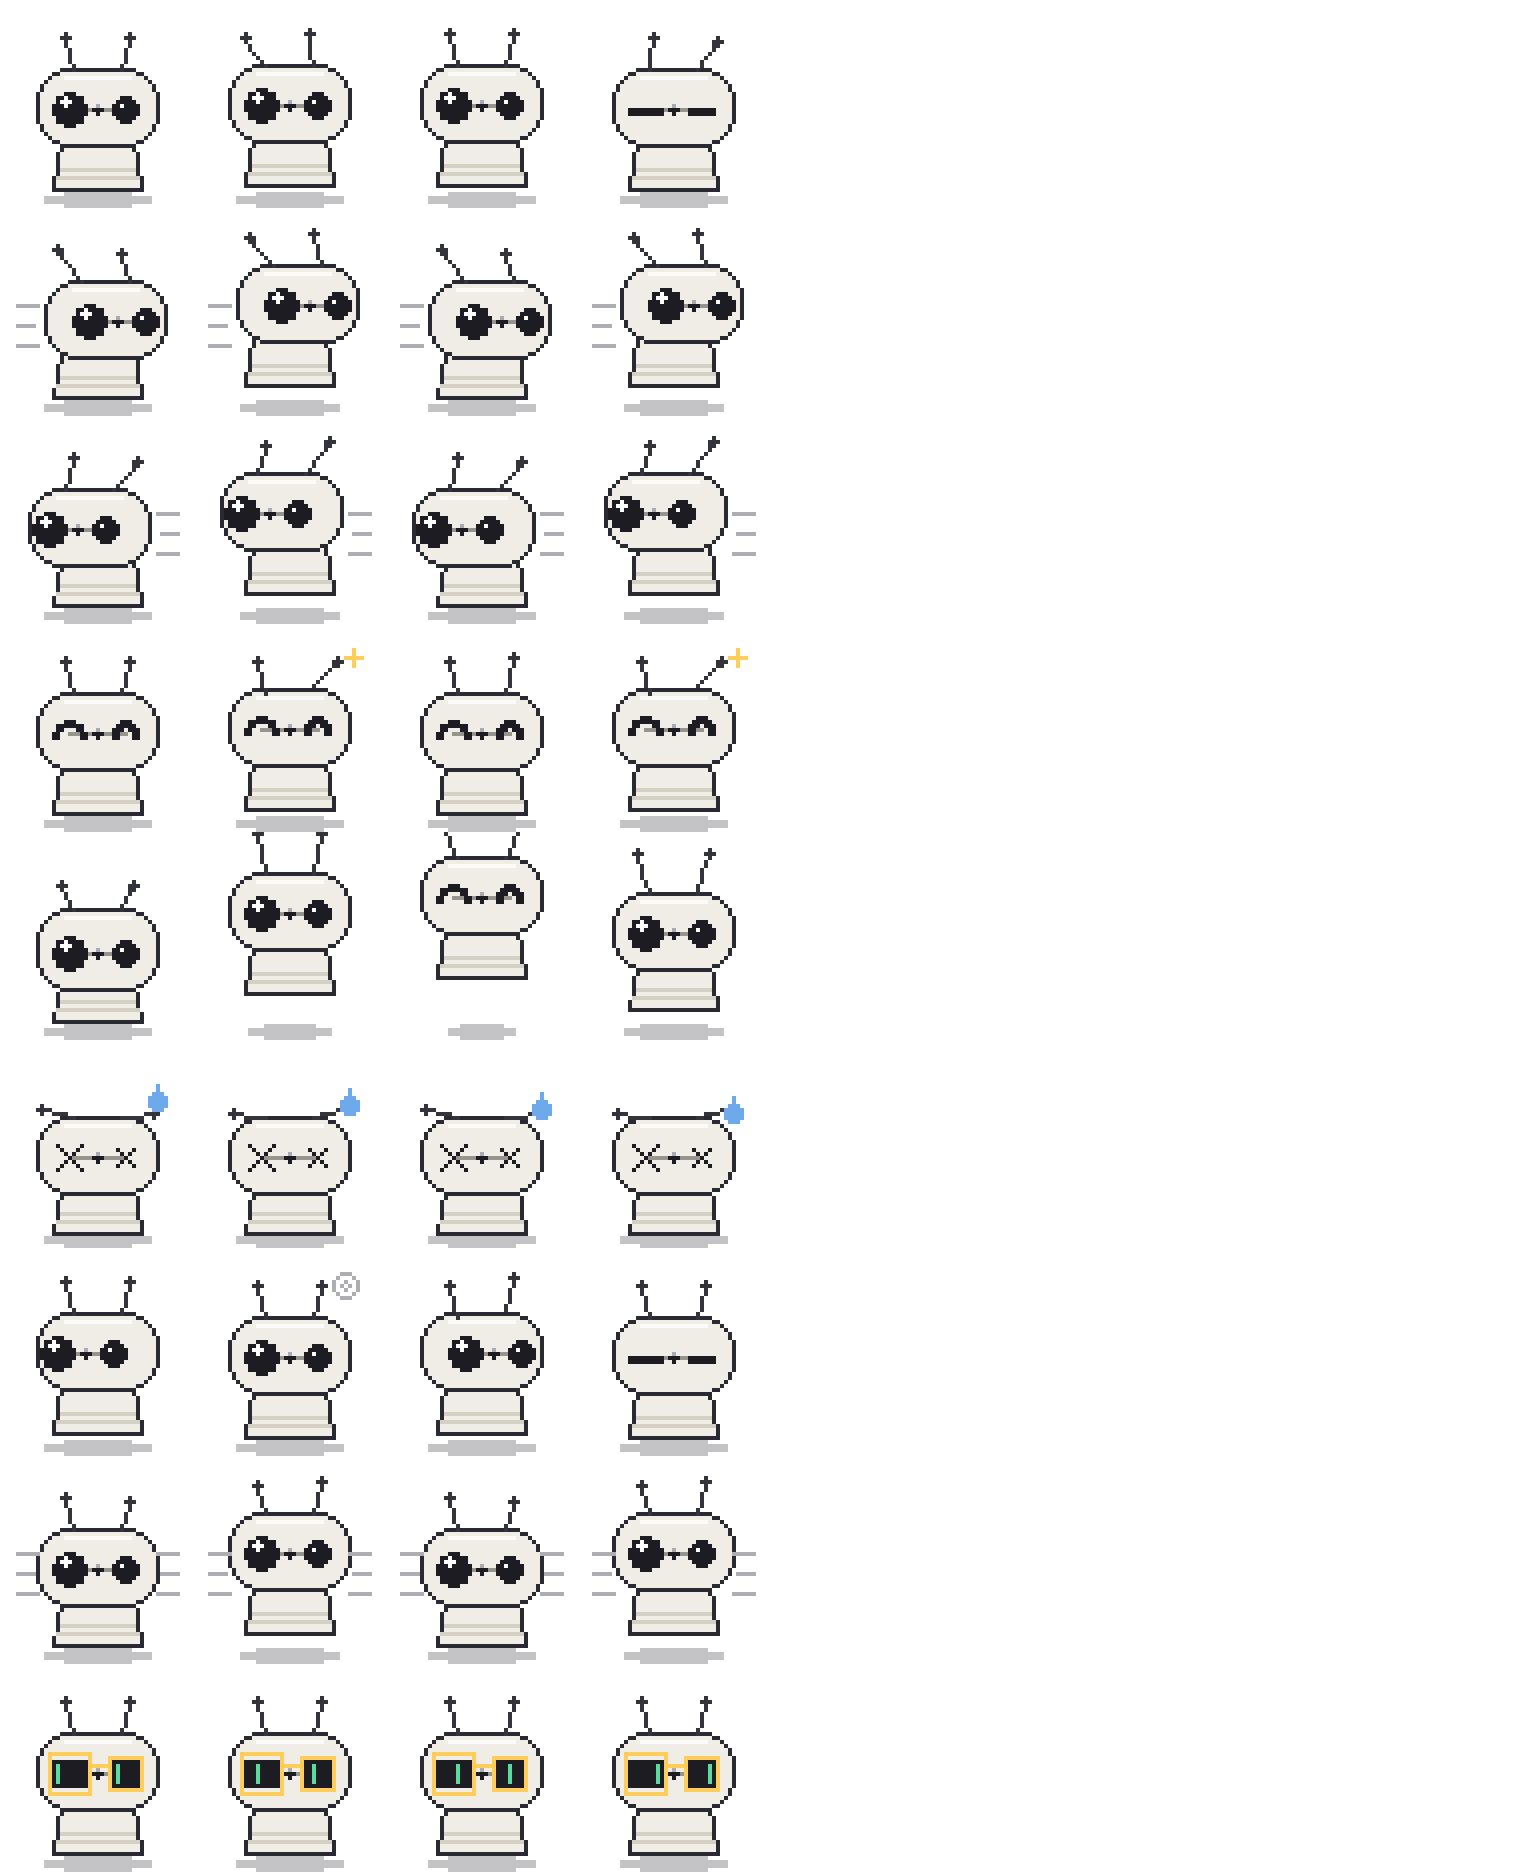
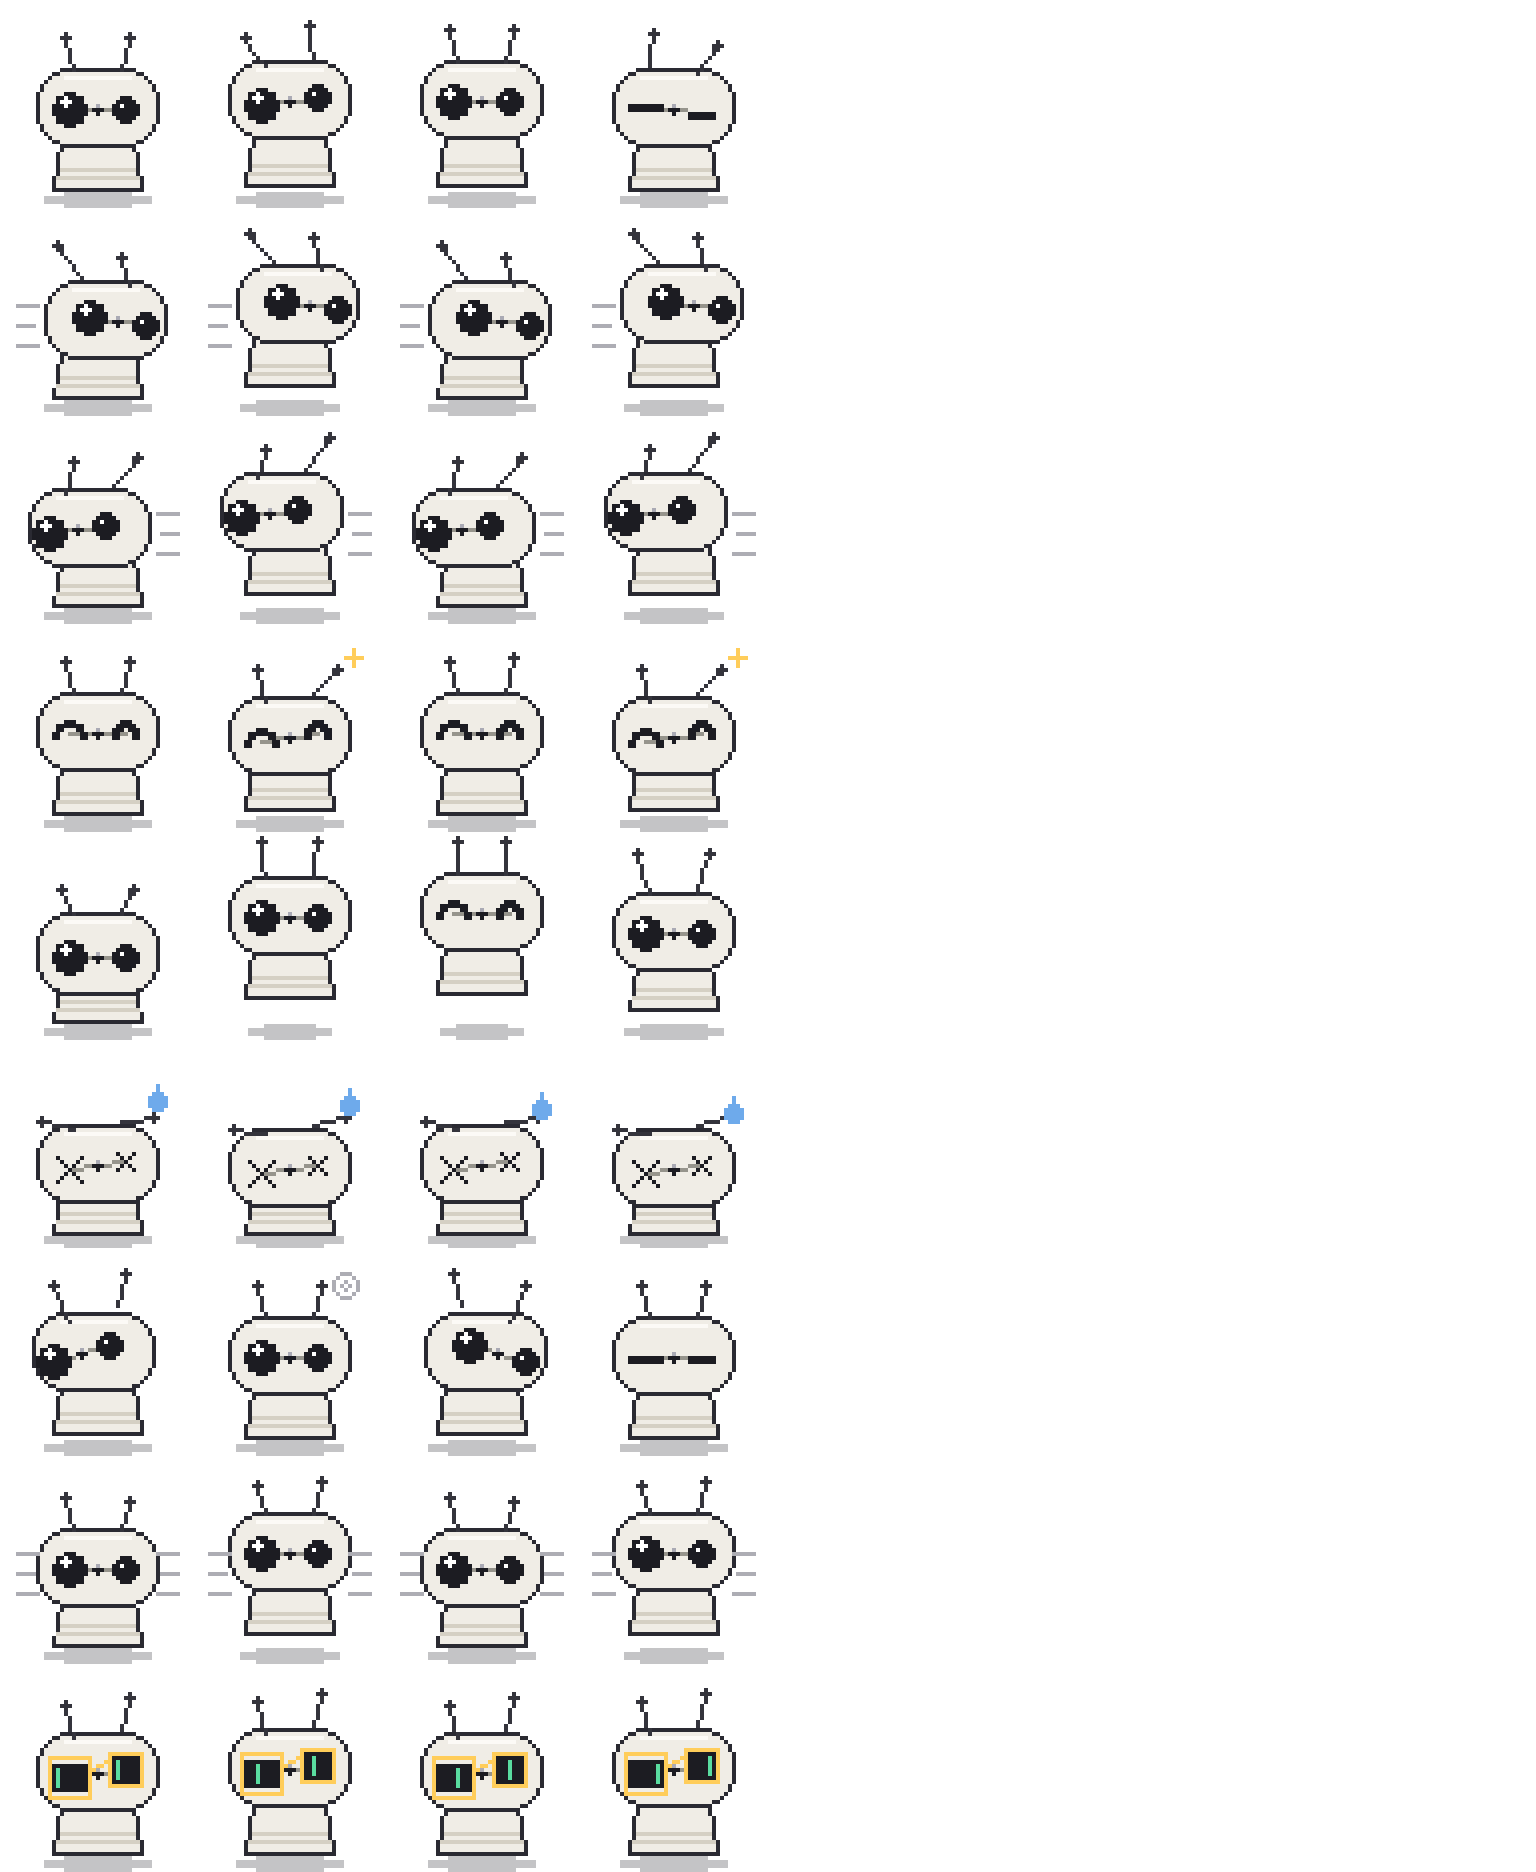
Animate the head the way the real robot expresses itself
The real Reachy Mini emotes through a 6-DOF neck, body rotation, and
two animated antennae (its emotion library records exactly those
channels), so the sprite now moves the same parts:

- New head channels: sideways lean (head_dx), vertical bob (head_dy),
  and a pixel-art-faked roll (tilt) that angles the face line and
  antenna bases diagonally while keeping the head slab crisp
- idle: breathing bob with a lazy head roll
- waving: greeting nod while the antenna waves
- jumping: celebration pose, antennae perked straight up at the apex
- failed: sad slump, head dropped low on the neck
- waiting: curious sideways head tilt with one antenna perked
- review: studious tilt held while the lenses scan
- Verify pass now also fails on art clipped at the top of a cell
- README documents the real-robot-to-sprite expression mapping

Claude-Session: https://claude.ai/code/session_01FnqqnHTN3C9xG7t7b8vUPW

diff --git a/generate_sprite.py b/generate_sprite.py
@@ -51,49 +51,55 @@ def draw_antenna(d, x0, y0, tip_dx, tip_dy):
     d.ellipse([tip[0] - 1, tip[1] - 1, tip[0] + 1, tip[1] + 1], fill=ANTENNA)
 
 
-def draw_eyes(d, cx, cy, style="open", look=0, scan=0):
+def draw_eyes(d, cx, cy, style="open", look=0, scan=0, tilt=0):
     """Reachy Mini's face: two round camera eyes — one slightly larger —
-    joined by a thin seam, with a tiny center camera lens sitting on it."""
+    joined by a thin seam, with a tiny center camera lens sitting on it.
+
+    tilt fakes the real robot's head roll at pixel-art resolution: the
+    left eye drops by `tilt` px, the right rises, and the seam runs
+    diagonally between them (positive tilt = right side up)."""
     lx = cx - 7 + look
     rx = cx + 7 + look
     mx = cx + look
-    # (eye x, radius): the left lens is slightly bigger than the right
-    eyes = ((lx, 4), (rx, 3))
+    lcy = cy + tilt
+    rcy = cy - tilt
+    # (eye x, radius, eye center y): the left lens is slightly bigger
+    eyes = ((lx, 4, lcy), (rx, 3, rcy))
 
     # thin seam connecting the eyes + tiny center camera lens
     # (drawn first, eyes go on top)
-    d.line([lx, cy, rx, cy], fill=(150, 148, 140, 255), width=1)
+    d.line([lx, lcy, rx, rcy], fill=(150, 148, 140, 255), width=1)
     d.ellipse([mx - 1, cy - 1, mx + 1, cy + 1], fill=EYE_DARK)
     d.point((mx, cy - 1), fill=(170, 170, 180, 255))
 
     if style == "open":
-        for ex, r in eyes:
-            d.ellipse([ex - r, cy - r, ex + r, cy + r], fill=EYE_DARK)
+        for ex, r, ey in eyes:
+            d.ellipse([ex - r, ey - r, ex + r, ey + r], fill=EYE_DARK)
             if r >= 4:
-                d.ellipse([ex - r + 2, cy - r + 1, ex - r + 4, cy - r + 3], fill=EYE_GLINT)
+                d.ellipse([ex - r + 2, ey - r + 1, ex - r + 4, ey - r + 3], fill=EYE_GLINT)
             else:
-                d.point((ex - 1, cy - 1), fill=EYE_GLINT)
+                d.point((ex - 1, ey - 1), fill=EYE_GLINT)
     elif style == "blink":
-        for ex, r in eyes:
-            d.line([ex - r, cy, ex + r, cy], fill=EYE_DARK, width=2)
+        for ex, r, ey in eyes:
+            d.line([ex - r, ey, ex + r, ey], fill=EYE_DARK, width=2)
     elif style == "happy":
-        for ex, r in eyes:
-            d.arc([ex - r, cy - 3, ex + r, cy + 5], 180, 360, fill=EYE_DARK, width=2)
+        for ex, r, ey in eyes:
+            d.arc([ex - r, ey - 3, ex + r, ey + 5], 180, 360, fill=EYE_DARK, width=2)
     elif style == "dizzy":
-        for ex, r in eyes:
+        for ex, r, ey in eyes:
             s = r - 1
-            d.line([ex - s, cy - s, ex + s, cy + s], fill=EYE_DARK, width=1)
-            d.line([ex - s, cy + s, ex + s, cy - s], fill=EYE_DARK, width=1)
+            d.line([ex - s, ey - s, ex + s, ey + s], fill=EYE_DARK, width=1)
+            d.line([ex - s, ey + s, ex + s, ey - s], fill=EYE_DARK, width=1)
     elif style == "scan":
-        for ex, r in eyes:
-            d.rectangle([ex - r, cy - 3, ex + r, cy + 3], fill=EYE_DARK)
+        for ex, r, ey in eyes:
+            d.rectangle([ex - r, ey - 3, ex + r, ey + 3], fill=EYE_DARK)
             # sweep the scan line across each lens, scaled to its width
             sx = ex - (r - 1) + (scan * (2 * (r - 1))) // 6
-            d.line([sx, cy - 2, sx, cy + 2], fill=(90, 220, 160, 255), width=1)
+            d.line([sx, ey - 2, sx, ey + 2], fill=(90, 220, 160, 255), width=1)
 
 
 def draw_robot(
-    d,
+    img,
     dy=0,
     squash=0,
     look=0,
@@ -102,16 +108,23 @@ def draw_robot(
     ant_l=(-2, 8),
     ant_r=(2, 8),
     head_dx=0,
-    head_tilt=0,
+    head_dy=0,
+    tilt=0,
     glasses=False,
     ground_shadow=True,
 ):
     """Draw the whole robot into one logical frame.
 
-    dy: vertical offset (negative = up).  squash: extra px removed from body
-    height (bounce squash).  head_dx: sideways head shift for leaning.
-    head_tilt: vertical offset added to one side of the antennae bases.
+    The real Reachy Mini expresses itself with a 6-DOF neck (pan / tilt /
+    roll plus vertical bob), full body rotation, and two animated antennae,
+    so the head gets its own movement channels independent of the body:
+
+    dy: whole-figure vertical offset (negative = up).  squash: bounce squash.
+    head_dx / head_dy: neck pan lean and vertical head bob (neck z).
+    tilt: fake head roll in px — face line and antenna bases go diagonal
+    (positive = right side up); the head slab itself stays crisp.
     """
+    d = ImageDraw.Draw(img)
     cx = LW // 2
     ground = LH - 5
 
@@ -139,9 +152,10 @@ def draw_robot(
     head_h = 19 + squash // 2
     head_w = 30
     hx = cx + head_dx
-    head_top = body_top - head_h + 2
+    head_top = body_top - head_h + 2 + head_dy
+    head_bottom = body_top + 2 + head_dy
     d.rounded_rectangle(
-        [hx - head_w // 2, head_top, hx + head_w // 2, body_top + 2],
+        [hx - head_w // 2, head_top, hx + head_w // 2, head_bottom],
         radius=8,
         fill=CREAM,
         outline=OUTLINE,
@@ -151,19 +165,18 @@ def draw_robot(
     d.line([hx - 8, head_top + 2, hx + 8, head_top + 2], fill=CREAM_BRIGHT, width=1)
 
     face_cy = head_top + head_h // 2 + 1
-    draw_eyes(d, hx, face_cy, style=eye_style, look=look, scan=scan)
+    draw_eyes(d, hx, face_cy, style=eye_style, look=look, scan=scan, tilt=tilt)
 
     if glasses:
         lx, rx = hx - 7 + look, hx + 7 + look
-        d.rectangle([lx - 5, face_cy - 5, lx + 5, face_cy + 5], outline=SPARK, width=1)
-        d.rectangle([rx - 4, face_cy - 4, rx + 4, face_cy + 4], outline=SPARK, width=1)
-        d.line([lx + 5, face_cy - 2, rx - 4, face_cy - 2], fill=SPARK, width=1)
+        lcy, rcy = face_cy + tilt, face_cy - tilt
+        d.rectangle([lx - 5, lcy - 5, lx + 5, lcy + 5], outline=SPARK, width=1)
+        d.rectangle([rx - 4, rcy - 4, rx + 4, rcy + 4], outline=SPARK, width=1)
+        d.line([lx + 5, lcy - 2, rx - 4, rcy - 2], fill=SPARK, width=1)
 
-    # Antennae, planted on the head top.
-    base_l = (hx - 6, head_top + head_tilt)
-    base_r = (hx + 6, head_top - head_tilt)
-    draw_antenna(d, *base_l, *ant_l)
-    draw_antenna(d, *base_r, *ant_r)
+    # Antennae, planted on the head top; their bases follow the head roll.
+    draw_antenna(d, hx - 6, head_top + tilt, *ant_l)
+    draw_antenna(d, hx + 6, head_top - tilt, *ant_r)
 
 
 def motion_lines(d, side, y=30):
@@ -181,13 +194,17 @@ def motion_lines(d, side, y=30):
 # --- Per-row frame builders ---------------------------------------------------
 
 def row_idle():
+    """Breathing bob with a lazy head sway — the neck is always alive."""
     frames = []
     bob = [0, -1, -1, 0]
+    head_bob = [0, -1, -1, 0]
+    tilts = [0, 1, 0, -1]
     sway = [(-2, 8), (-5, 7), (-2, 8), (1, 8)]
     sway_r = [(2, 8), (-1, 8), (2, 8), (5, 7)]
     for i in range(4):
         img, d = new_frame()
-        draw_robot(d, dy=bob[i], eye_style="blink" if i == 3 else "open",
+        draw_robot(img, dy=bob[i], head_dy=head_bob[i], tilt=tilts[i],
+                   eye_style="blink" if i == 3 else "open",
                    ant_l=sway[i], ant_r=sway_r[i])
         frames.append(img)
     return frames
@@ -204,8 +221,9 @@ def row_run(direction):
         trail = -4 * direction if direction else 0
         ant_l = (trail - 2, 7 if i % 2 else 8)
         ant_r = (trail + 2, 8 if i % 2 else 7)
-        draw_robot(d, dy=bob[i], squash=sq[i], look=look,
-                   head_dx=2 * direction, ant_l=ant_l, ant_r=ant_r)
+        draw_robot(img, dy=bob[i], squash=sq[i], look=look,
+                   head_dx=2 * direction, tilt=-direction,
+                   ant_l=ant_l, ant_r=ant_r)
         if direction:
             motion_lines(d, -direction)
         else:
@@ -216,13 +234,16 @@ def row_run(direction):
 
 
 def row_wave():
-    """Non-looping greeting: no arms, so Reachy waves with an antenna."""
+    """Non-looping greeting: the real robot greets with a head nod and an
+    antenna wiggle, so nod the head while one antenna waves big."""
     frames = []
     wave = [(2, 8), (6, 6), (2, 9), (6, 6)]
+    nod = [0, 2, 0, 2]
     for i in range(4):
         img, d = new_frame()
-        draw_robot(d, dy=-1 if i % 2 else 0, eye_style="happy",
-                   ant_l=(-2, 8), ant_r=wave[i], head_tilt=1 if i % 2 else 0)
+        draw_robot(img, dy=-1 if i % 2 else 0, head_dy=nod[i],
+                   eye_style="happy",
+                   ant_l=(-2, 8), ant_r=wave[i], tilt=1 if i % 2 else 0)
         if i in (1, 3):
             x, y = LW - 8, 8
             d.line([x - 2, y, x + 2, y], fill=SPARK, width=1)
@@ -232,29 +253,35 @@ def row_wave():
 
 
 def row_jump():
+    """Celebration: squash, launch, hang with antennae perked straight up."""
     frames = []
     img, d = new_frame()
-    draw_robot(d, dy=0, squash=3, ant_l=(-3, 6), ant_r=(3, 6))
+    draw_robot(img, dy=0, squash=3, head_dy=1, ant_l=(-3, 6), ant_r=(3, 6))
     frames.append(img)
     img, d = new_frame()
-    draw_robot(d, dy=-7, eye_style="open", ant_l=(-2, 10), ant_r=(2, 10))
+    draw_robot(img, dy=-6, eye_style="open",
+               ant_l=(-1, 9), ant_r=(1, 9))
     frames.append(img)
     img, d = new_frame()
-    draw_robot(d, dy=-11, eye_style="happy", ant_l=(-4, 9), ant_r=(4, 9))
+    draw_robot(img, dy=-7, eye_style="happy",
+               ant_l=(0, 8), ant_r=(0, 8))
     frames.append(img)
     img, d = new_frame()
-    draw_robot(d, dy=-3, squash=1, ant_l=(-3, 10), ant_r=(3, 10))
+    draw_robot(img, dy=-3, squash=1, ant_l=(-3, 10), ant_r=(3, 10))
     frames.append(img)
     return frames
 
 
 def row_failed():
+    """Sad: the real move drops the head low on the neck with antennae
+    hanging flat; the whole figure slumps and barely breathes."""
     frames = []
     for i in range(4):
         img, d = new_frame()
         droop_l = (-8, 2) if i % 2 == 0 else (-8, 1)
         droop_r = (8, 1) if i % 2 == 0 else (8, 2)
-        draw_robot(d, dy=1, eye_style="dizzy", ant_l=droop_l, ant_r=droop_r,
+        draw_robot(img, dy=1, head_dy=3 if i % 2 else 2, tilt=1,
+                   eye_style="dizzy", ant_l=droop_l, ant_r=droop_r,
                    squash=1)
         # sweat drop sliding down beside the head
         sx, sy = LW - 9, 14 + i
@@ -265,13 +292,20 @@ def row_failed():
 
 
 def row_waiting():
+    """Curious: Reachy's signature move is a sideways head tilt with one
+    antenna perked, glancing around while it waits."""
     frames = []
     looks = [-3, 0, 3, 0]
+    tilts = [2, 0, -2, 0]
+    leans = [-1, 0, 1, 0]
     styles = ["open", "open", "open", "blink"]
     for i in range(4):
         img, d = new_frame()
-        draw_robot(d, dy=0 if i % 2 else -1, look=looks[i], eye_style=styles[i],
-                   ant_l=(-2, 8), ant_r=(2, 8), head_tilt=1 if i == 2 else 0)
+        ant_l = (-4, 9) if i == 0 else (-2, 8)
+        ant_r = (4, 9) if i == 2 else (2, 8)
+        draw_robot(img, dy=0 if i % 2 else -1, look=looks[i],
+                   tilt=tilts[i], head_dx=leans[i], eye_style=styles[i],
+                   ant_l=ant_l, ant_r=ant_r)
         if i == 1:
             x, y = LW - 10, 9
             for r in (1, 3):
@@ -281,11 +315,13 @@ def row_waiting():
 
 
 def row_review():
+    """Thinking: a slight studious head tilt held while the lenses scan."""
     frames = []
     scans = [0, 2, 4, 6]
     for i in range(4):
         img, d = new_frame()
-        draw_robot(d, dy=0, eye_style="scan", scan=scans[i], glasses=True,
+        draw_robot(img, dy=0, tilt=1, head_dy=-1 if i % 2 else 0,
+                   eye_style="scan", scan=scans[i], glasses=True,
                    ant_l=(-2, 8), ant_r=(2, 8))
         frames.append(img)
     return frames
@@ -328,6 +364,9 @@ def verify(atlas):
                 ok = False
             if col >= FRAMES_PER_ROW and has_pixels:
                 print(f"FAIL: row {row + 1} col {col + 1} should be fully transparent")
+                ok = False
+            if has_pixels and cell.crop((0, 0, CELL_W, 1)).getextrema()[3][1] > 0:
+                print(f"FAIL: row {row + 1} col {col + 1} has art clipped at the cell top")
                 ok = False
     if atlas.size != (1536, 1872):
         print(f"FAIL: atlas size {atlas.size}, expected (1536, 1872)")

diff --git a/README.md b/README.md
@@ -23,25 +23,45 @@ generate_sprite.py      generates the atlas + previews and verifies the layout
 preview/                per-row PNG strips and animated GIFs, plus the full atlas
 ```
 
+## How the real robot expresses itself
+
+The real Reachy Mini has no arms, no legs, and no display face — its
+camera eyes never change. All of its expression comes from three
+channels, which its emotion library records as trajectories of head
+pose + antenna angles + body yaw:
+
+- a **6-DOF neck** — pan, tilt, roll, plus vertical head bobbing
+- **full body rotation** around the vertical axis
+- **two independently animated antennae**
+
+The sprite animates the same channels: an independent head layer with
+sideways lean (`head_dx`), vertical bob (`head_dy`), and a faked roll
+(`tilt` — the face line and antenna bases go diagonal while the head
+slab stays pixel-crisp), plus per-frame antenna poses. Eye expressions
+(blinks, happy arcs, X eyes, scan lines) are a sprite-native cheat the
+real robot can't do, layered on top of the true body language.
+
 ## Atlas layout (v1)
 
-9 state rows, 4 leading frames each, trailing cells fully transparent:
+9 state rows, 4 leading frames each, trailing cells fully transparent.
+Each row is modeled on a move from the robot's emotion/gesture library:
 
-| Row | State | Animation |
-| --- | --- | --- |
-| 1 | idle | gentle bob, antenna sway, occasional blink |
-| 2 | running-right | lean right, bounce, speed streaks |
-| 3 | running-left | mirrored | 
-| 4 | waving | no arms — waves an antenna, happy eyes, sparkle |
-| 5 | jumping | squash, launch, hang with happy eyes, land |
-| 6 | failed | flopped antennae, X eyes, sliding sweat drop |
-| 7 | waiting | looks left/right, head tilt, blink, "?" ripple |
-| 8 | running | front-facing bounce, streaks both sides |
-| 9 | review | reading glasses, green scan lines sweeping both lenses |
+| Row | State | Real-robot move | Animation |
+| --- | --- | --- | --- |
+| 1 | idle | idle breathing | body + head bob, lazy head roll, antenna sway, blink |
+| 2 | running-right | — | head leans and rolls into the motion, speed streaks |
+| 3 | running-left | — | mirrored |
+| 4 | waving | greeting (nod) | head nods while one antenna waves big, happy eyes |
+| 5 | jumping | celebration | squash, launch, hang with antennae perked straight up |
+| 6 | failed | sad | head slumps low on the neck, antennae hang flat, X eyes, sweat drop |
+| 7 | waiting | curious | signature sideways head tilt with one antenna perked, glancing around |
+| 8 | running | — | front-facing bounce, streaks both sides |
+| 9 | review | thinking | studious head tilt held while glasses + scan lines sweep the lenses |
 
 A verification pass in `generate_sprite.py` asserts the atlas is exactly
-1536x1872 and that every trailing cell is fully transparent (the renderer
-detects frame count from leading non-empty cells).
+1536x1872, that every trailing cell is fully transparent (the renderer
+detects frame count from leading non-empty cells), and that no art is
+clipped against the top of its cell.
 
 ## Install
 
